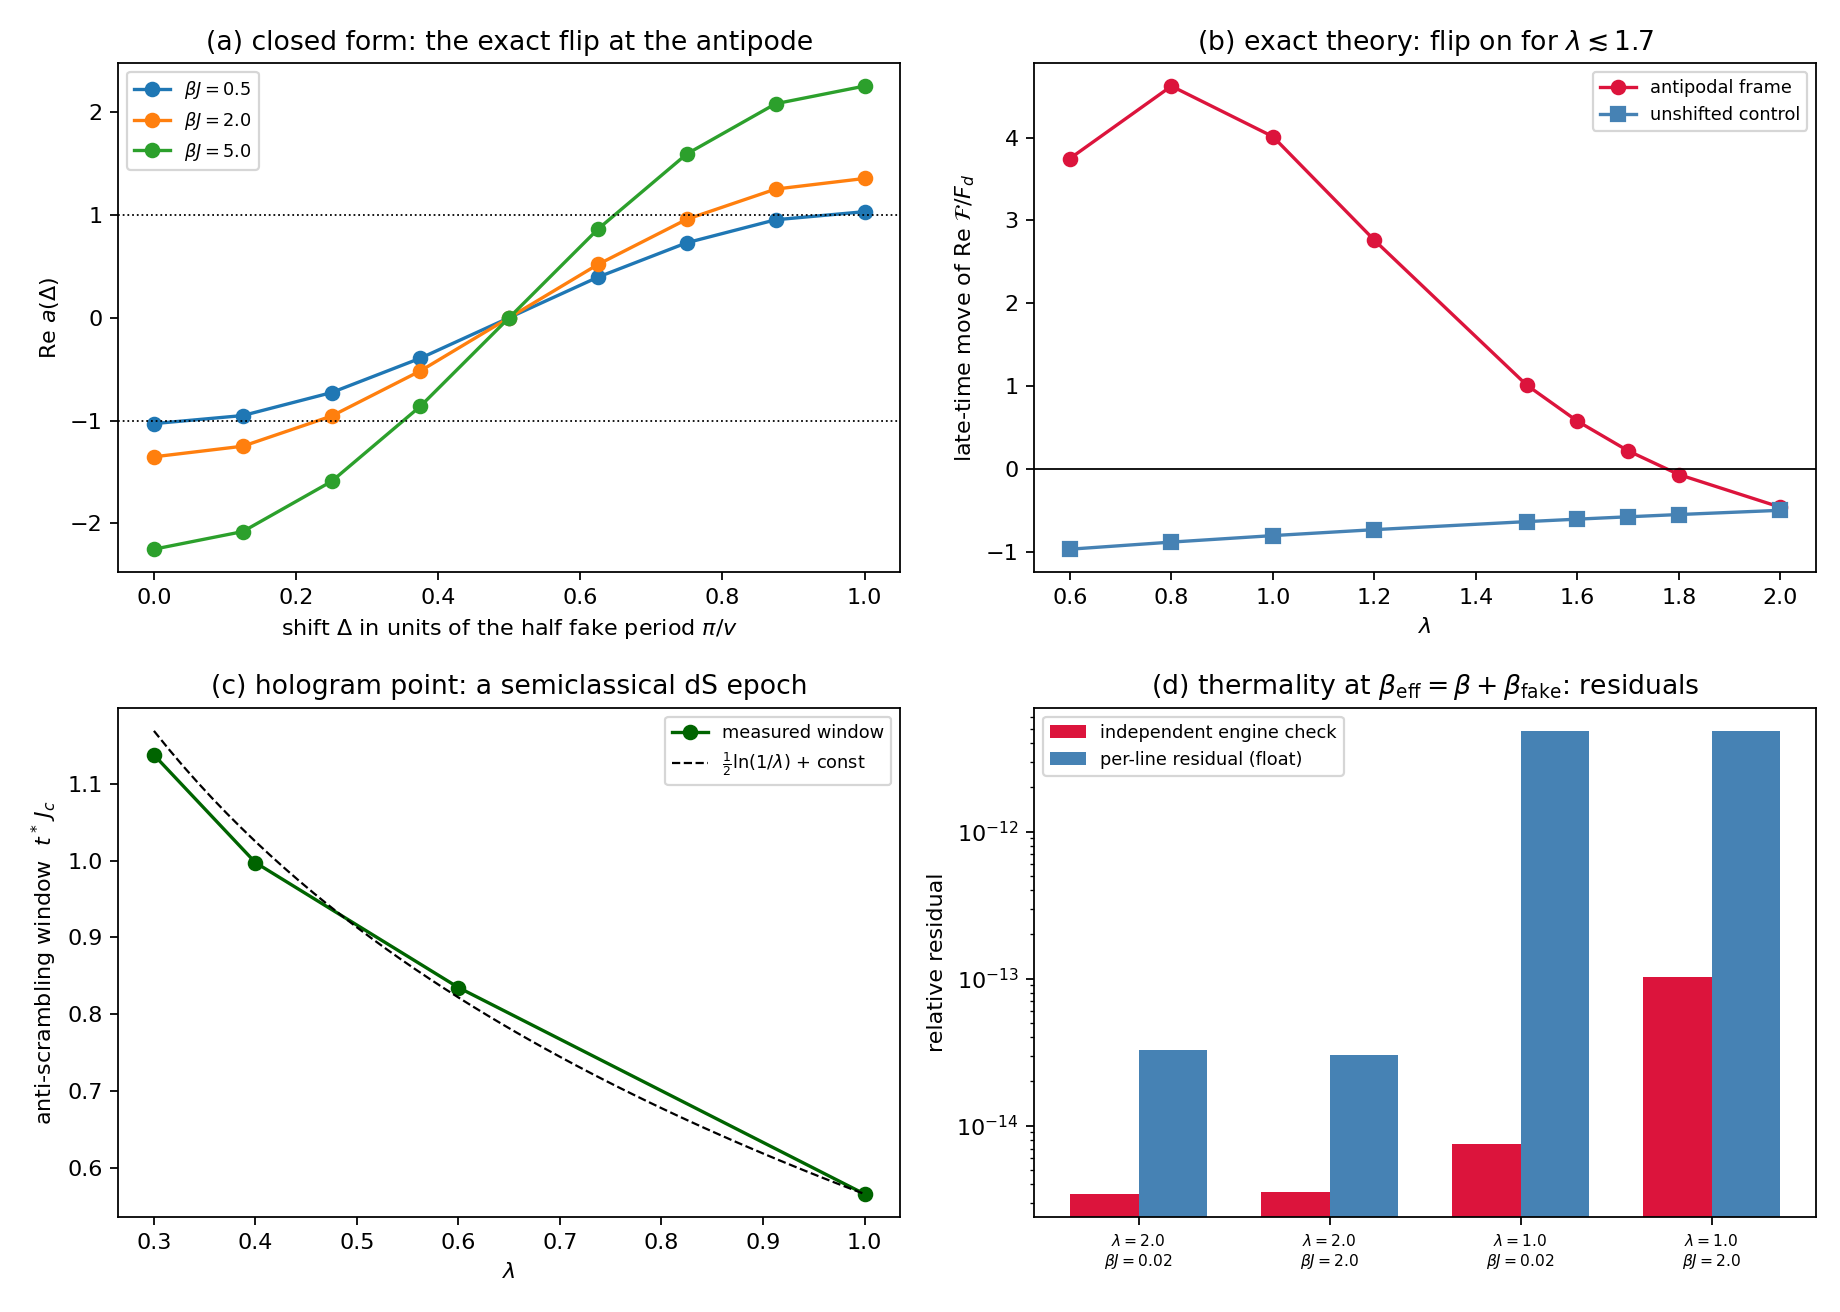
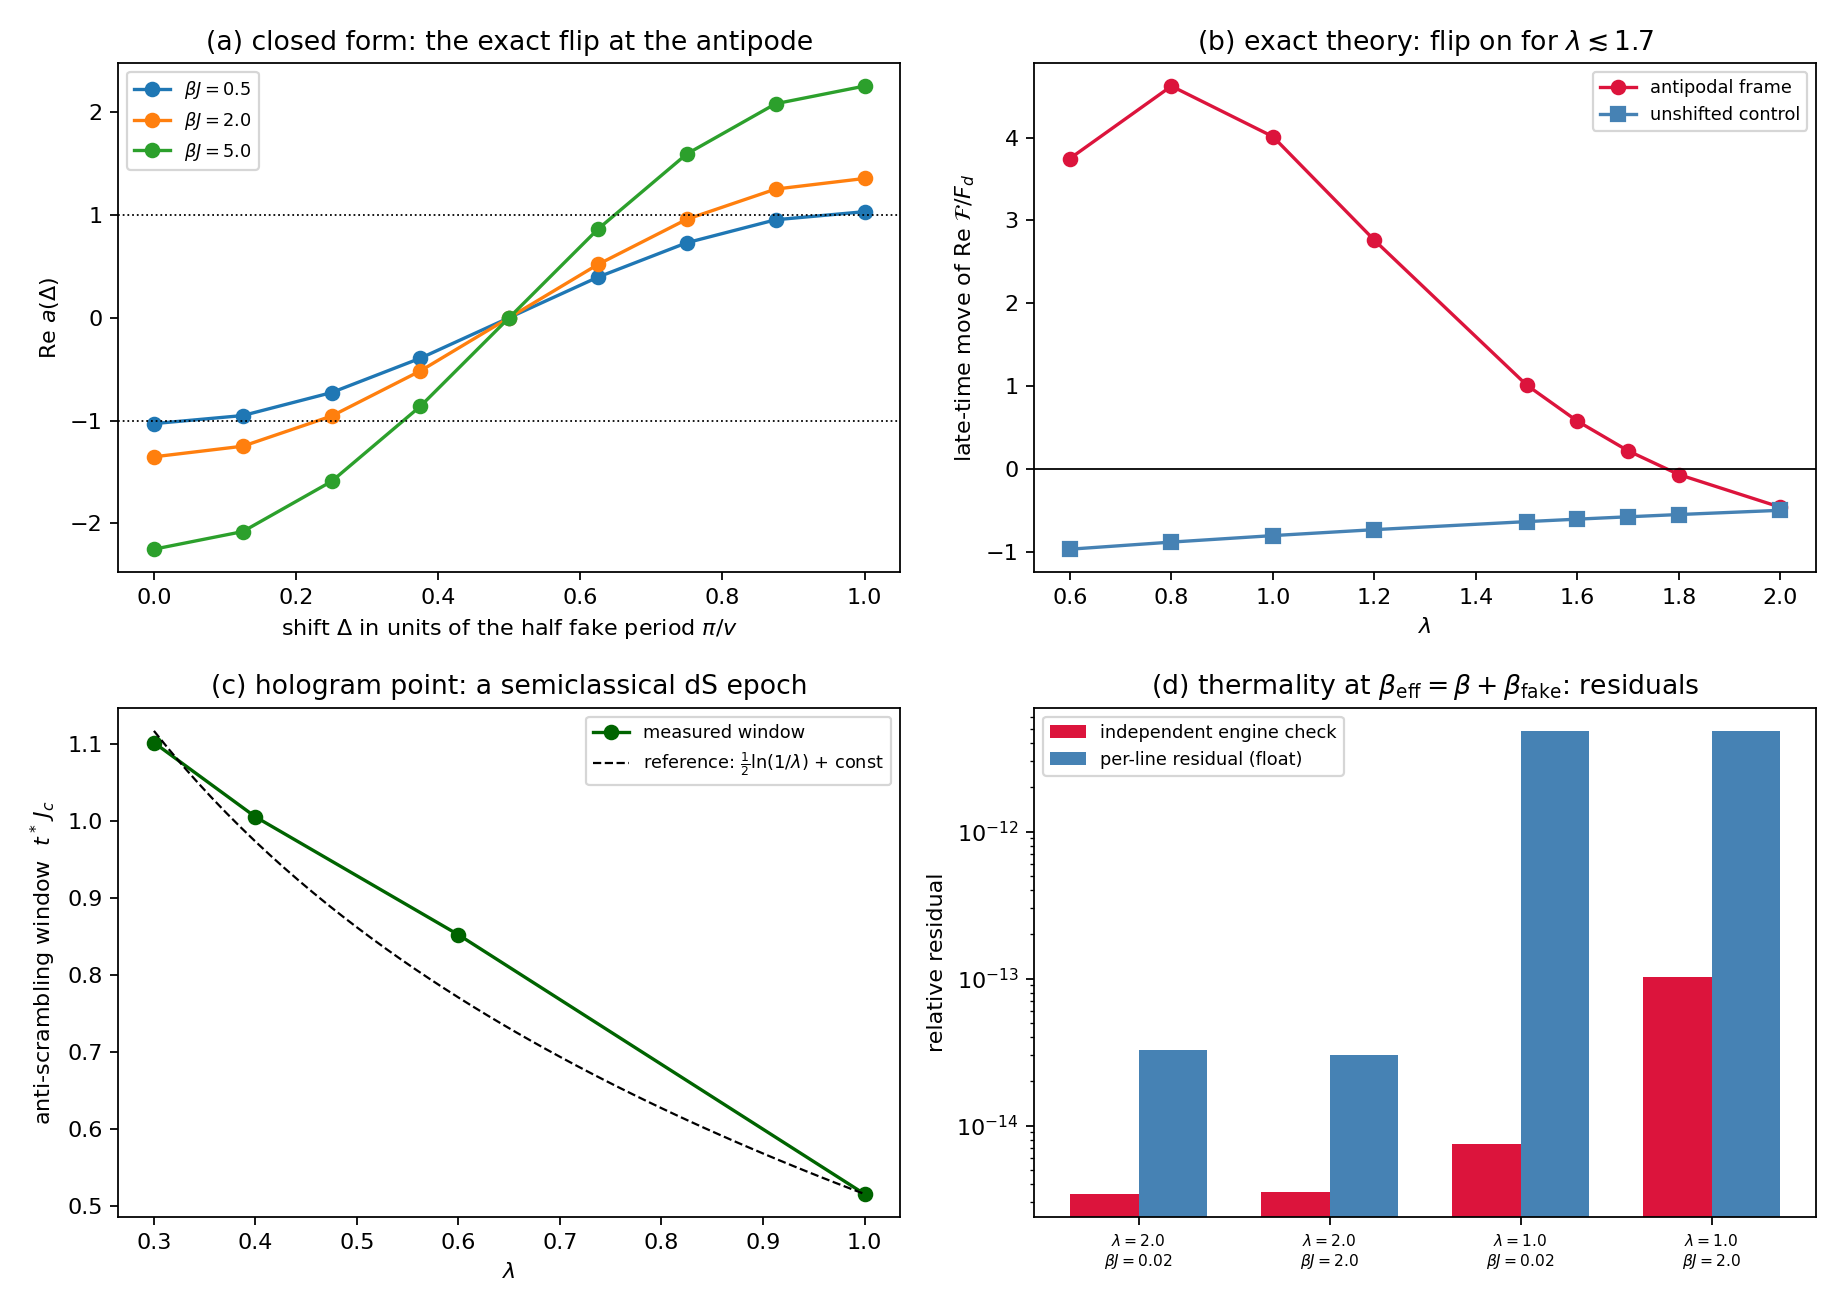
Figures and docstrings: remove the last stale statements of E2, E3, E4, E12
chord_summary.png panel (d) was titled "the tower channel turns on
toward fixed p" (E4). It now plots the raw ED width against the exact
N = infinity full channel (full_channel_chord.channel), which the ED
approaches from below, and the pair part's theorem value 0.
signflip_summary.png had been rendered from the pre-E12 grid-point
windows (0.57 -> 1.14); regenerated from the interpolated maxima
(0.52 -> 1.10), with the half ln(1/lambda) curve labelled a reference.
test_chord_moments.py no longer carries w2 ~ 1.19 and "carried
entirely by the diagonal channel" (E2, E3). pair_moments.png
regenerated (anti-aliasing only).

diff --git a/duality/plot_chord.py b/duality/plot_chord.py
@@ -3,7 +3,8 @@
 
 Reads chord_spectra.json, chord_fold.json and
 ../syk-self-averaging/mn_majorana_bench.json.  Nothing is recomputed and
-nothing is hardcoded.
+nothing is hardcoded; the one curve not read from JSON is the closed form
+of full_channel_chord.channel in (d).
 
 (a) The verdict.  Exact N = infinity spectral functions S_Delta, with a
     fine window at the semiclassical scale, against the sech^{2 Delta}
@@ -13,9 +14,12 @@ nothing is hardcoded.
     <n(t)> against -(2/lambda) log sech(Jc t).
 (c) The decider.  Folded against unfolded connected fractions, against
     lambda.  The fold breaks the 1/N (~lambda) hierarchy at N = infinity.
-(d) The bench.  Raw w2 rising toward the 't Hooft corner along fixed p,
-    plus the matched-lambda pair.  This is the honest negative; the chord
-    prediction for the pair channel is 0.
+(d) The bench.  Raw ED w2 of the full A_2 channel along fixed p, plus
+    the matched-lambda pair, against the exact N = infinity full channel
+    (full_channel_chord.py) and its pair part, which is 0.  The rise along
+    fixed p is conserved H^2 weight leaving mu_0, not a channel turning
+    on (ERRATA E4; with it removed the width falls monotonically,
+    syk-self-averaging/full_channel_laws.py).
 """
 import json
 import sys
@@ -25,6 +29,8 @@ import matplotlib
 matplotlib.use("Agg")
 import matplotlib.pyplot as plt
 import numpy as np
+
+from full_channel_chord import channel
 
 _HERE = Path(__file__).resolve().parent
 
@@ -109,12 +115,15 @@ pair = [next(r for r in bench["points"]
 ax.plot([r["lambda_chord"] for r in pair], [r["w2"] for r in pair],
         "k:", marker="*", ms=11, lw=1,
         label="matched-$\\lambda$ pair ($N{=}10\\to22$)")
+lam_grid = np.linspace(1.0, max(r["lambda_chord"] for r in bench["points"]
+                               if r["n"] == 2 and r["p"] in (4, 6)), 200)
+ax.plot(lam_grid, [channel(x)["w2"] for x in lam_grid], "C3-", lw=1.5,
+        label="$N=\\infty$ full channel (closed form)")
 ax.axhline(0.0, color="k", lw=1,
-           label="chord $N=\\infty$ pair amplitude: 0")
+           label="$N=\\infty$ pair part (theorem): 0")
 ax.set_xlabel(r"$\lambda_{\rm chord}$")
-ax.set_ylabel(r"$w_2$ ($n=2$ channel)")
-ax.set_title("(d) the tower channel turns on toward fixed $p$, "
-             "$\\lambda\\to0$")
+ax.set_ylabel(r"raw $w_2$ ($n=2$ channel)")
+ax.set_title("(d) finite-$N$ ED against the exact $N=\\infty$ channel")
 ax.legend(fontsize=7)
 
 fig.tight_layout()

diff --git a/duality/plot_signflip.py b/duality/plot_signflip.py
@@ -7,7 +7,9 @@ signflip_deep.json).  Reads the JSONs only.  Nothing is recomputed.
 (b) The exact-theory onset.  re_move of the antipodal trend against
     lambda, where up means anti-scrambling, with the unshifted control.
 (c) The hologram point.  The transient anti-scrambling window against
-    lambda, in Jc units, with its ~half ln(1/lambda) growth.
+    lambda, in Jc units (interpolated maxima, ERRATA E12), against a
+    half ln(1/lambda) reference: the growth is monotone in ln(1/lambda)
+    but not that law (DISCRIMINATOR.md).
 (d) The frame's thermality at beta_eff = beta + beta_fake: the residuals.
     The per-line law is exact by construction, so the panel shows what is
     actually measured.  That is the independent contour-engine check and
@@ -68,7 +70,7 @@ ax.plot(lams_h, wins, "o-", color="darkgreen", label="measured window")
 lam_fit = np.linspace(lams_h.min(), lams_h.max(), 50)
 ax.plot(lam_fit, 0.5 * np.log(1.0 / lam_fit) + wins[-1]
         - 0.5 * np.log(1.0 / lams_h[-1]), "k--", lw=1,
-        label=r"$\frac{1}{2}\ln(1/\lambda)$ + const")
+        label=r"reference: $\frac{1}{2}\ln(1/\lambda)$ + const")
 ax.set_xlabel(r"$\lambda$")
 ax.set_ylabel(r"anti-scrambling window  $t^*\,J_c$")
 ax.set_title("(c) hologram point: a semiclassical dS epoch")

diff --git a/duality/test_chord_moments.py b/duality/test_chord_moments.py
@@ -19,10 +19,12 @@ test_chord.py.
 
 SCOPE, and CHORD.md carries the full statement.  This is a FLAVOR
 statement, not an invisibility statement.  The full singlet channel also
-has a flavor-diagonal part of the same order, and that part does
-propagate for n >= 2.  The full A_2 width rises to w_2 ~ 1.19 along
-lambda_chord = 2.  So at N = infinity the tower's weight is carried
-entirely by the diagonal channel.
+has a flavor-diagonal part of the same order, and the full channel
+propagates for n >= 2.  On a double-scaling line the diagonal and pair
+halves cancel at O(sqrt N), and the physical channel is the O(1)
+remainder, belonging to neither half: for A_2 a conserved H^2 piece plus
+a Delta = 2 matter chord, raw width 1.316906 at lambda_chord = 2
+(full_channel_chord.py, singlet_tower.py; ERRATA E2, E3).
 """
 
 import json
